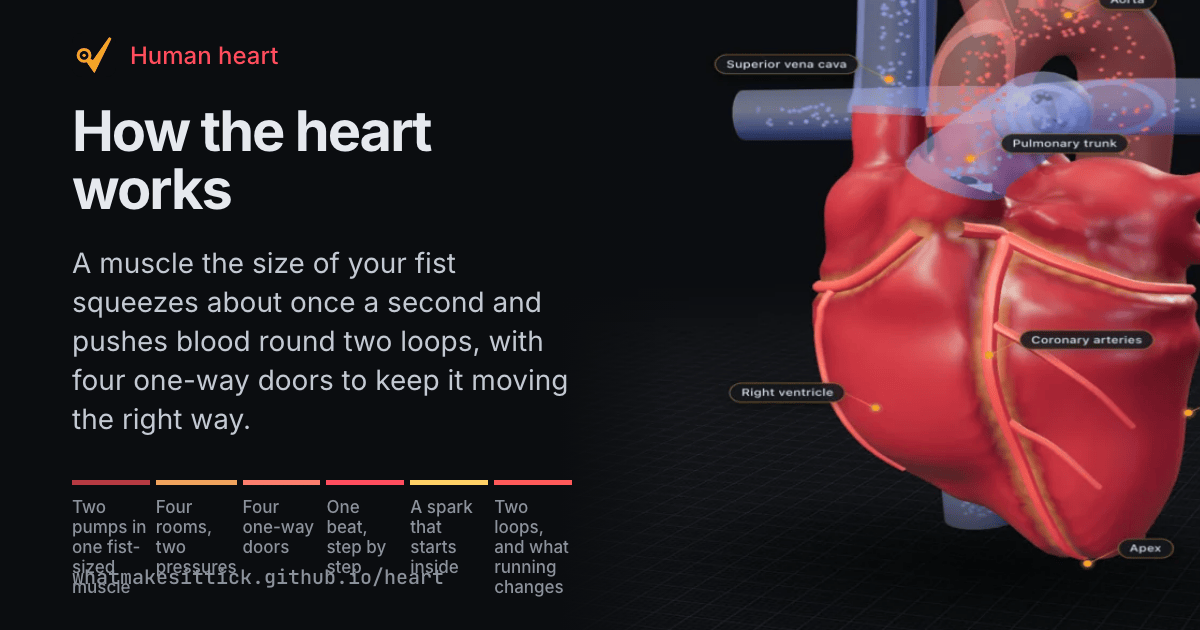
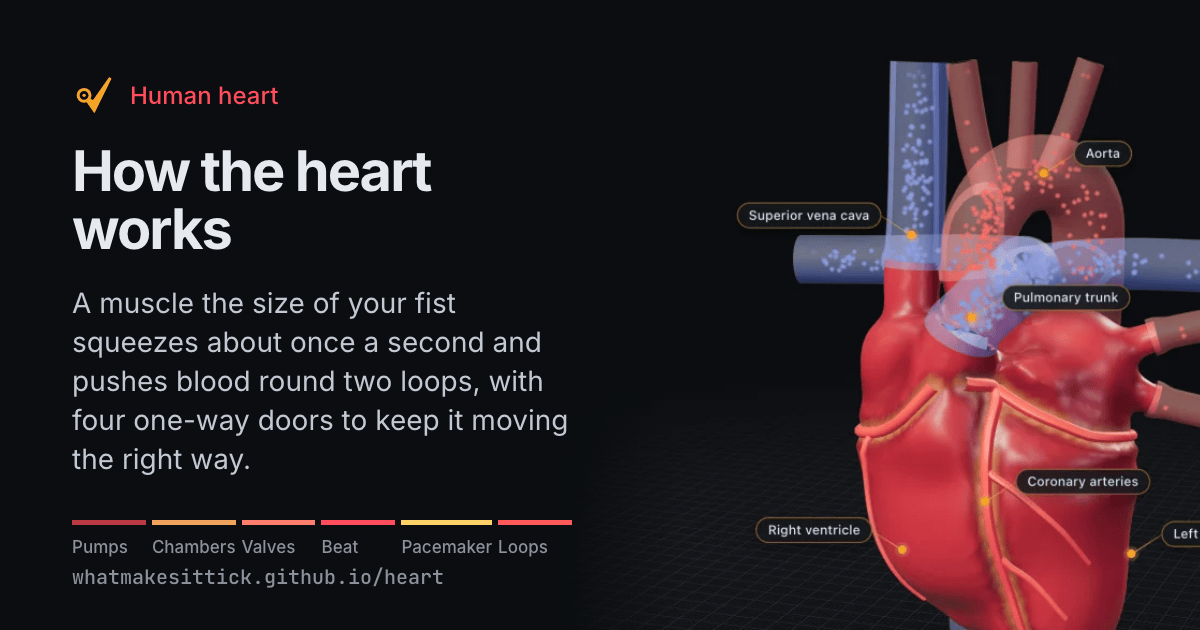
fix(heart): reframe the cover on the model and keep the card topics to one word

diff --git a/scripts/cards/heart.html b/scripts/cards/heart.html
@@ -148,12 +148,12 @@
         loops, with four one-way doors to keep it moving the right way.
       </p>
       <ol class="topics">
-        <li style="--tone: var(--muscle)">Two pumps in one fist-sized muscle</li>
-        <li style="--tone: var(--atria)">Four rooms, two pressures</li>
-        <li style="--tone: var(--squeeze)">Four one-way doors</li>
-        <li style="--tone: var(--eject)">One beat, step by step</li>
-        <li style="--tone: var(--node)">A spark that starts inside</li>
-        <li style="--tone: var(--arterial)">Two loops, and what running changes</li>
+        <li style="--tone: var(--muscle)">Pumps</li>
+        <li style="--tone: var(--atria)">Chambers</li>
+        <li style="--tone: var(--squeeze)">Valves</li>
+        <li style="--tone: var(--eject)">Beat</li>
+        <li style="--tone: var(--node)">Pacemaker</li>
+        <li style="--tone: var(--arterial)">Loops</li>
       </ol>
     </main>
     <p class="url">whatmakesittick.github.io/heart</p>
